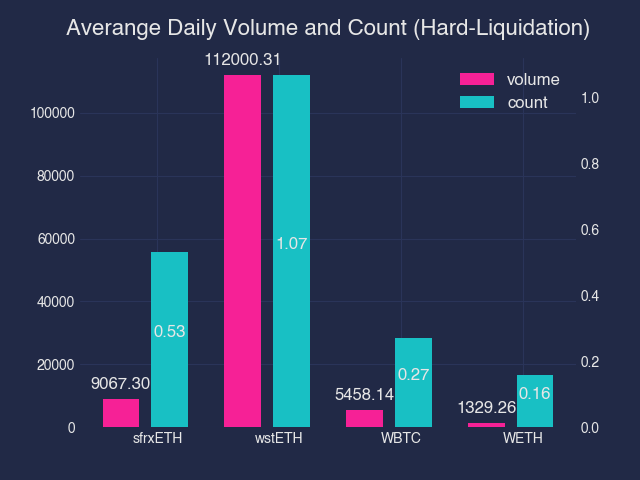
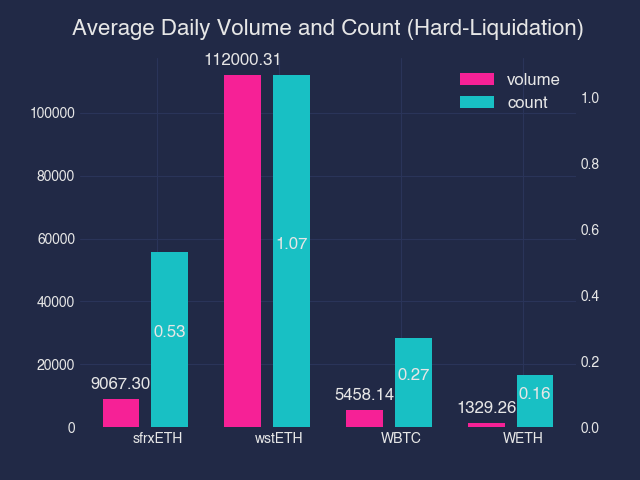
fix typo

Changed region(s): [[0.0938, 0.0312, 0.9375, 0.0938]]

diff --git a/scripts/5_statistics_summary.py b/scripts/5_statistics_summary.py
@@ -64,7 +64,7 @@ def stat_summary_soft():
     ax2.grid(False)
 
     ax1.set_title(
-        "Averange Daily Volume and Count (Soft-Liquidation)", font={"size": 16}, pad=16
+        "Average Daily Volume and Count (Soft-Liquidation)", font={"size": 16}, pad=16
     )
     ax1.set_xticks(x + bar_width, species)
     chart_elements = [rects1, rects2]
@@ -124,7 +124,7 @@ def stat_summary_hard():
     ax2.grid(False)
 
     ax1.set_title(
-        "Averange Daily Volume and Count (Hard-Liquidation)", font={"size": 16}, pad=16
+        "Average Daily Volume and Count (Hard-Liquidation)", font={"size": 16}, pad=16
     )
     ax1.set_xticks(x + bar_width, species)
     chart_elements = [rects1, rects2]
